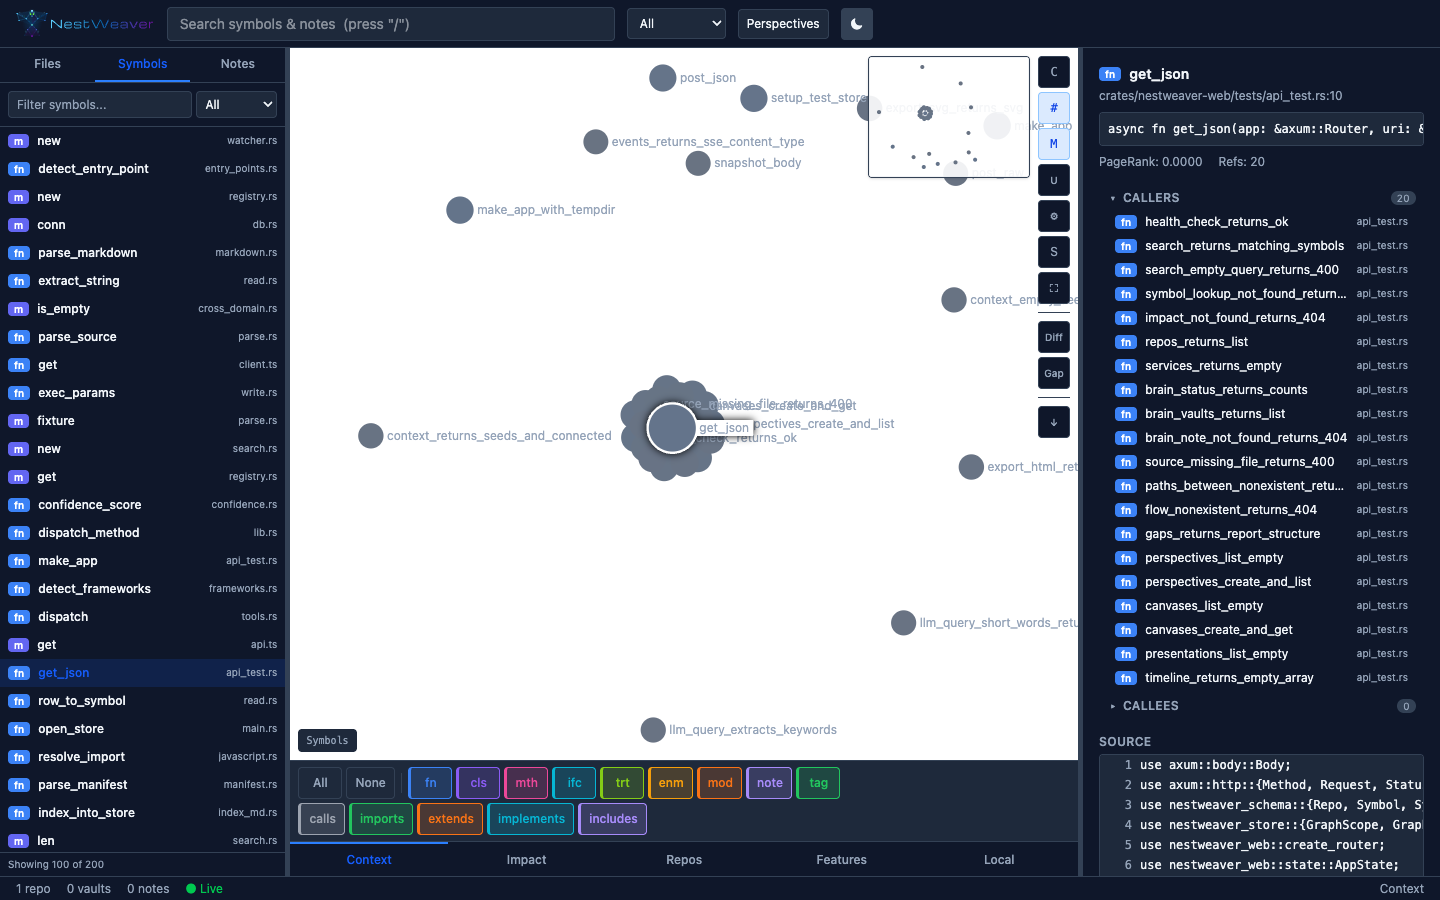
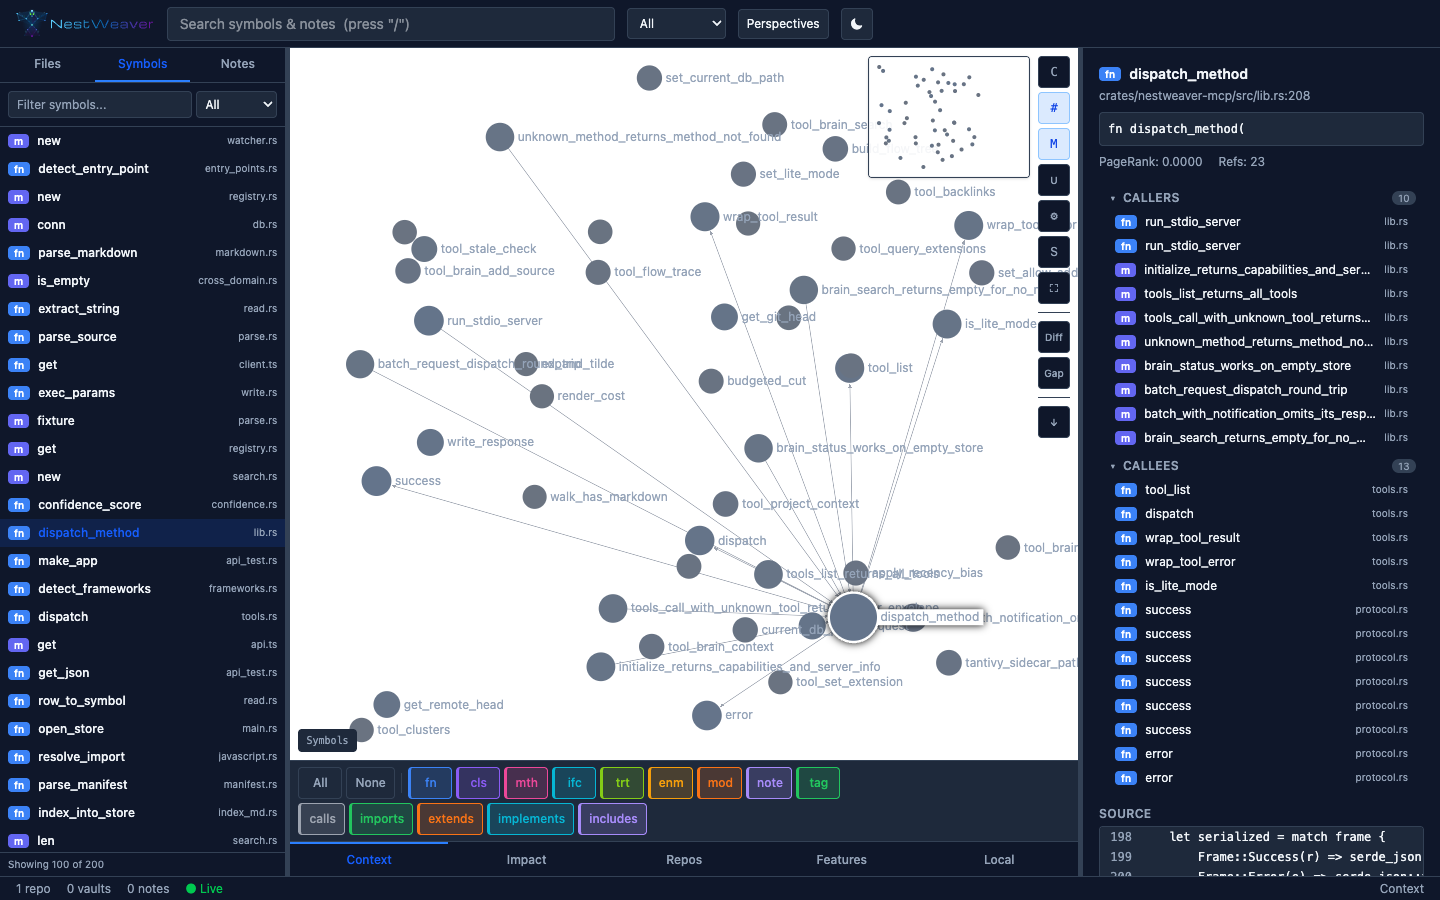
docs: retake web UI screenshot with better graph layout and detail panel

diff --git a/README.md b/README.md
@@ -91,11 +91,20 @@ nestweaver index --repo ./my-project
 nestweaver context processPayment
 ```
 
+```sh
+# Configure for your AI tool (Claude Code, Cursor, Codex, Windsurf, JetBrains, VS Code)
+nestweaver setup
+```
+
 Run `nestweaver --help` for the full command list. All commands support `--json` for machine-readable output.
 
 ## Install
 
 ```sh
+# npm (recommended — no Rust needed)
+npm install -g @kehl-io/nestweaver
+
+# or Cargo
 cargo install --path .
 ```
 
